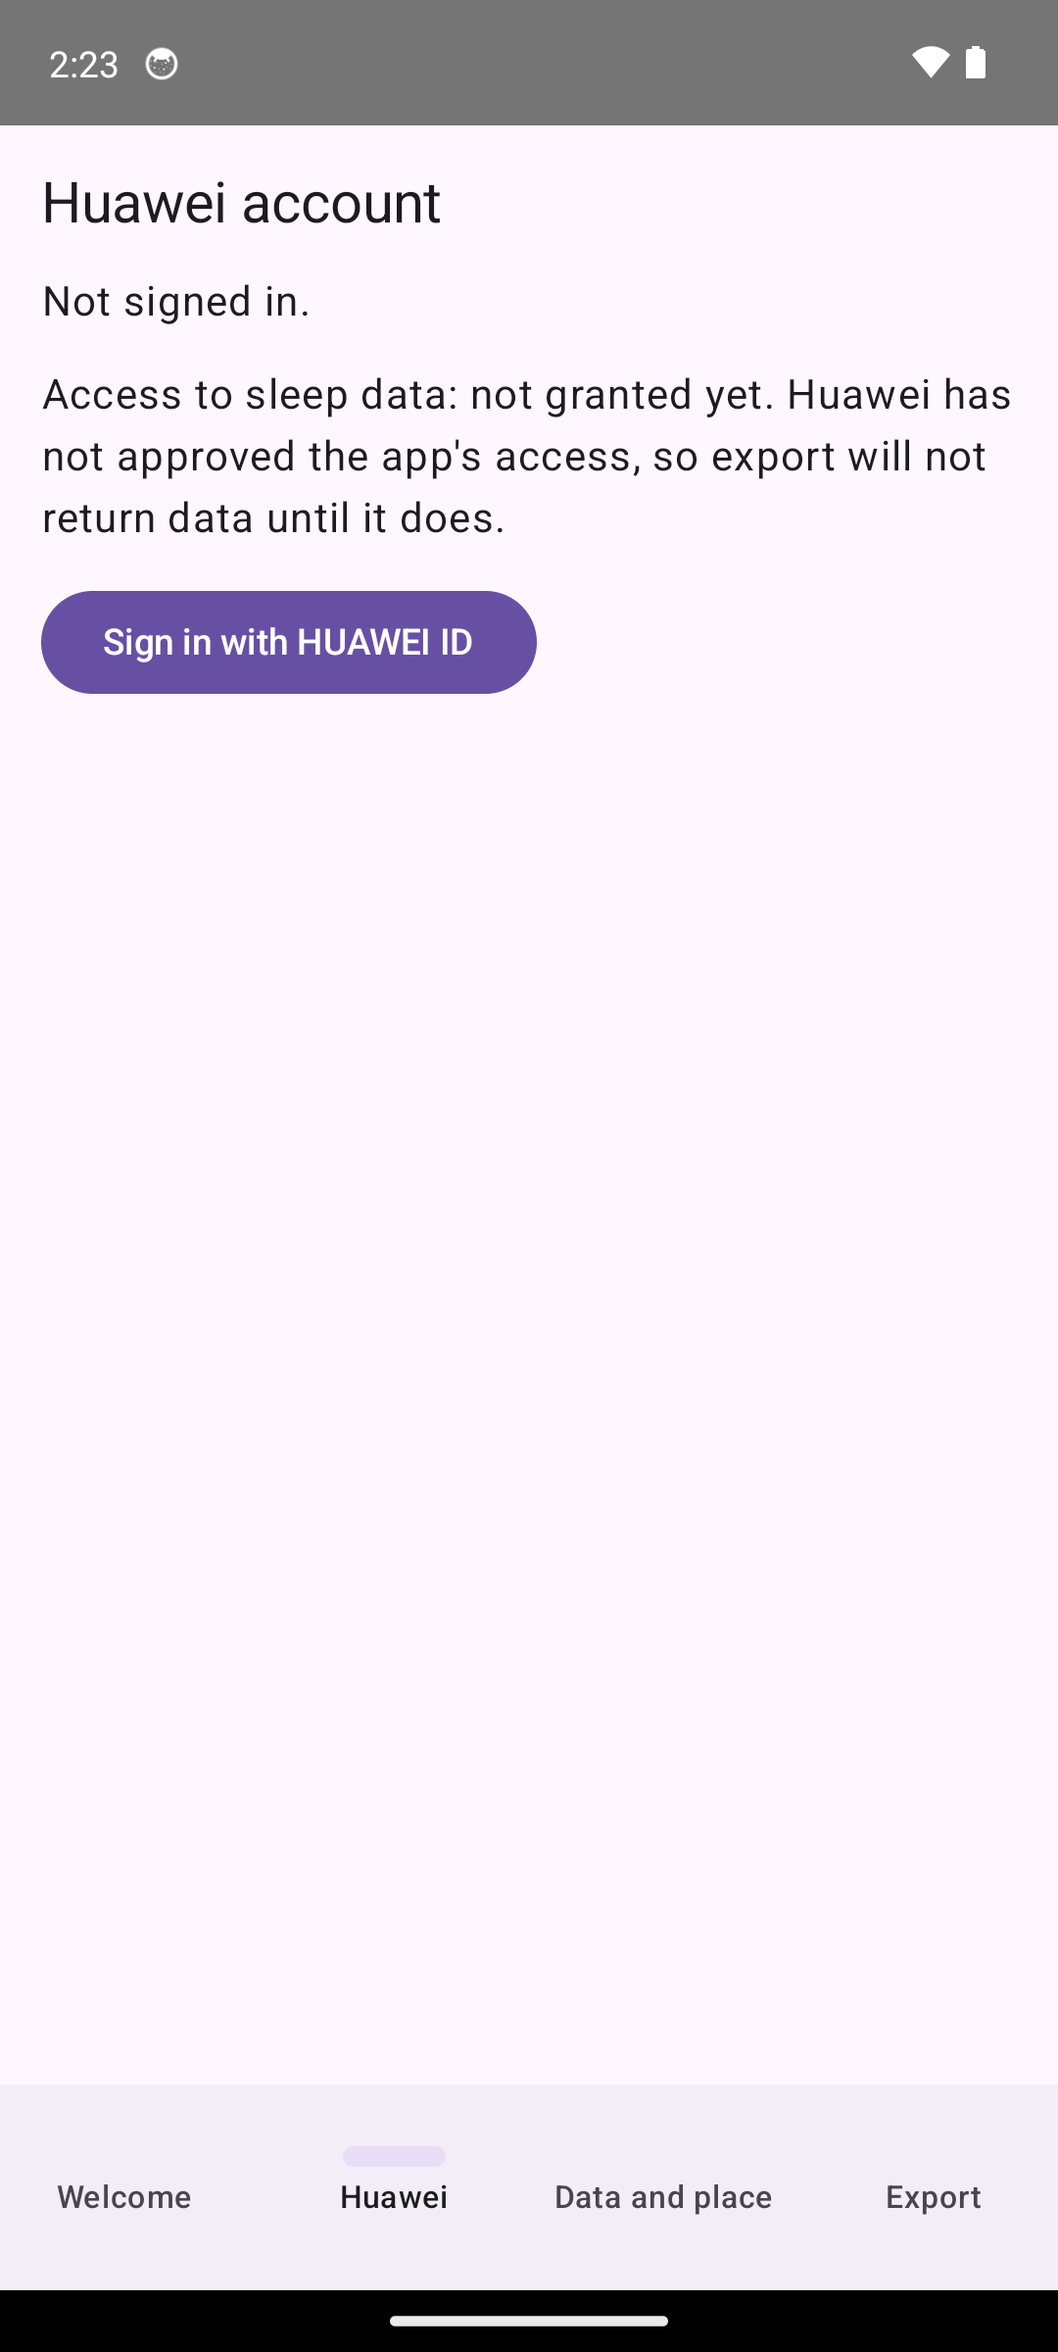
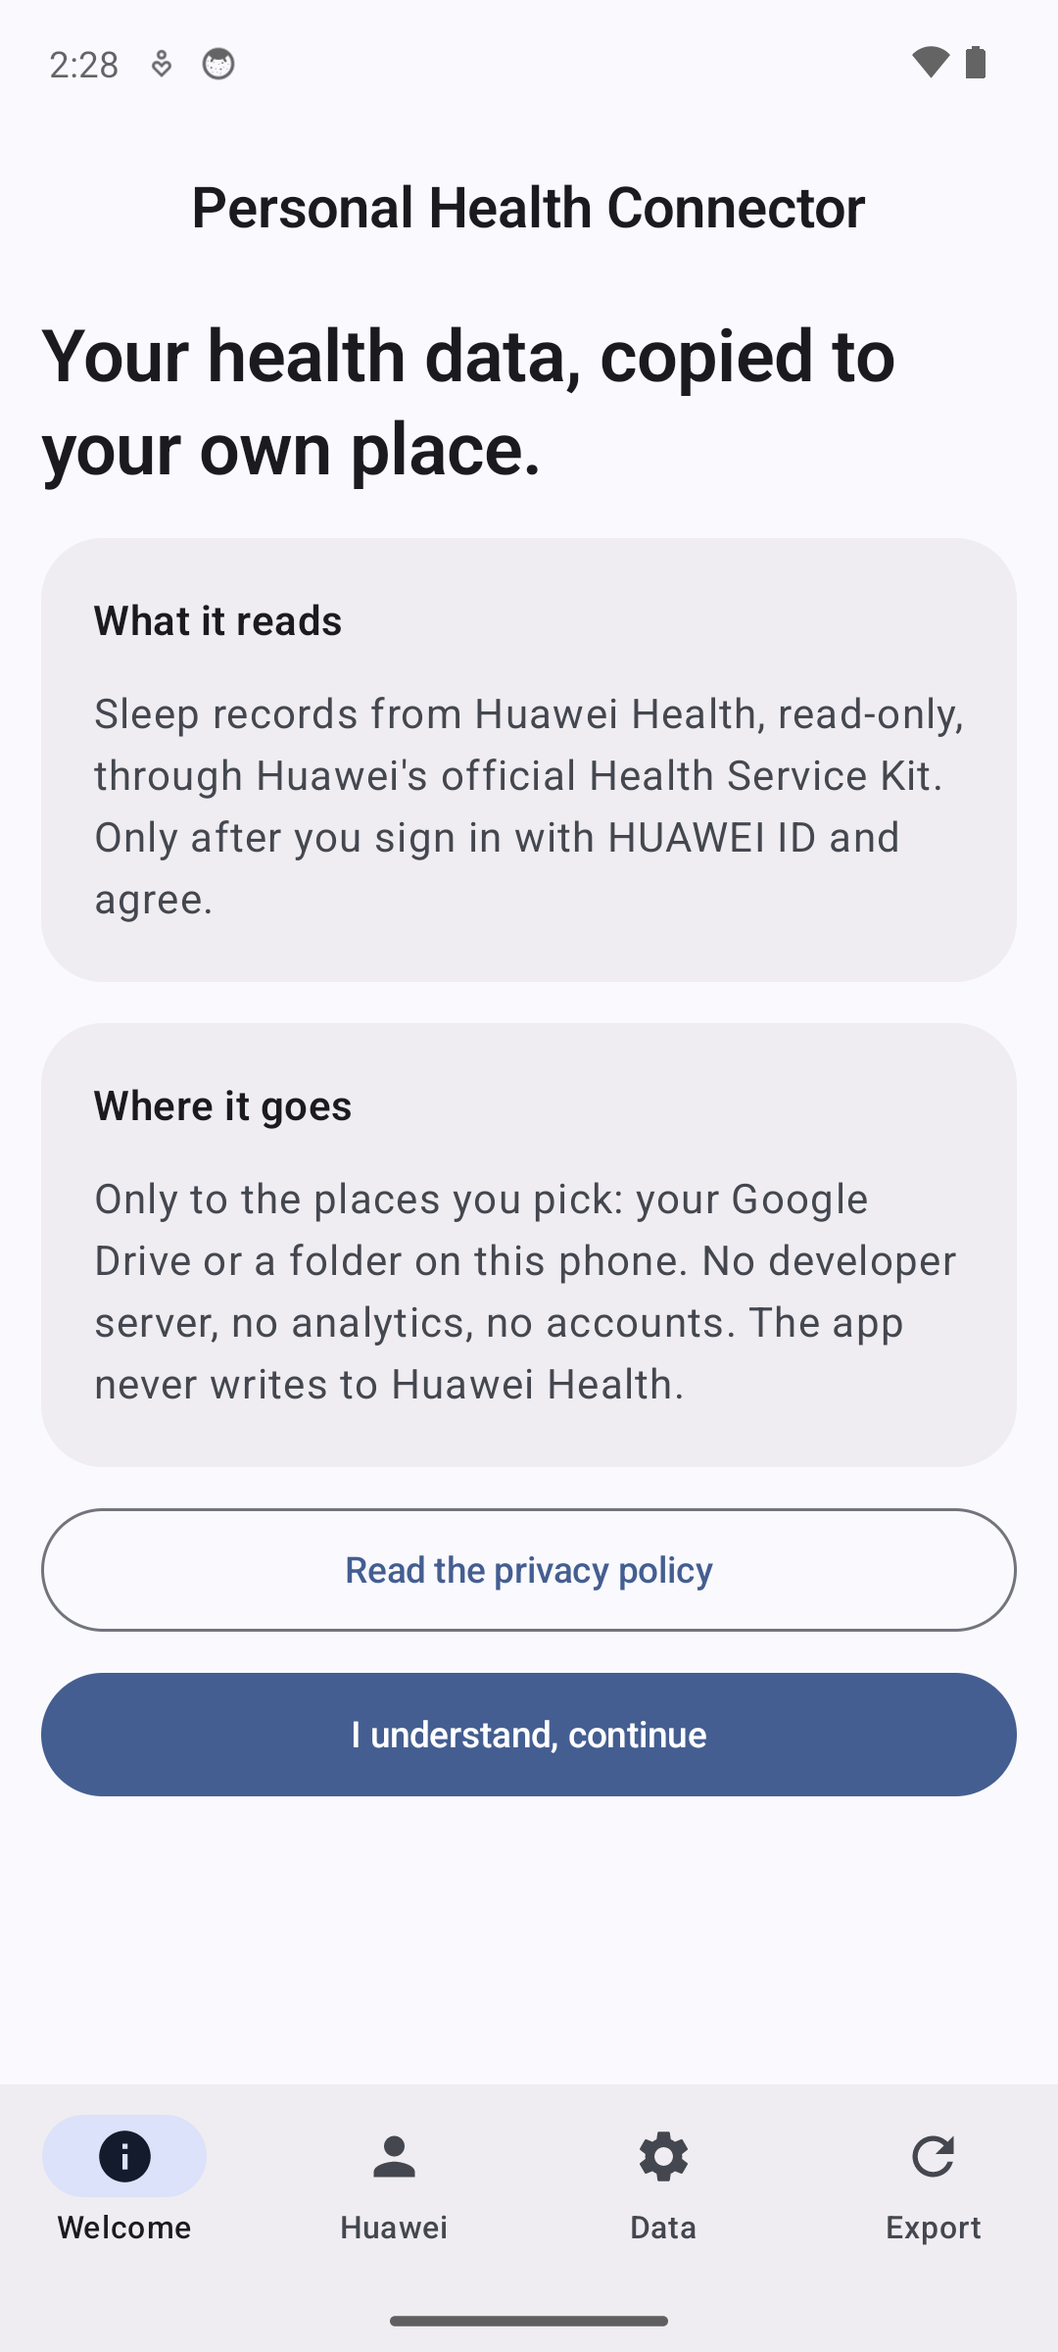
Polish UI: Material 3 theme, cards, status chips, top bar, edge-to-edge, light/dark screenshots

diff --git a/app/src/main/java/app/personalhealthconnector/MainActivity.kt b/app/src/main/java/app/personalhealthconnector/MainActivity.kt
@@ -4,48 +4,89 @@ import android.app.Activity
 import android.app.TimePickerDialog
 import android.content.Intent
 import android.net.Uri
+import android.os.Build
 import android.os.Bundle
 import androidx.activity.ComponentActivity
 import androidx.activity.compose.rememberLauncherForActivityResult
 import androidx.activity.compose.setContent
+import androidx.activity.enableEdgeToEdge
 import androidx.activity.result.IntentSenderRequest
 import androidx.activity.result.contract.ActivityResultContracts
+import androidx.compose.foundation.isSystemInDarkTheme
 import androidx.compose.foundation.layout.*
 import androidx.compose.foundation.rememberScrollState
+import androidx.compose.foundation.shape.RoundedCornerShape
 import androidx.compose.foundation.verticalScroll
+import androidx.compose.material.icons.Icons
+import androidx.compose.material.icons.filled.*
 import androidx.compose.material3.*
 import androidx.compose.runtime.*
+import androidx.compose.ui.Alignment
 import androidx.compose.ui.Modifier
+import androidx.compose.ui.graphics.Color
 import androidx.compose.ui.platform.LocalContext
+import androidx.compose.ui.text.font.FontWeight
 import androidx.compose.ui.unit.dp
-import androidx.work.OneTimeWorkRequestBuilder
-import androidx.work.WorkManager
 import java.text.DateFormat
 import java.util.Date
 
 const val PRIVACY_URL = "https://skywardpro.github.io/personal-health-connector/PRIVACY"
 
+private val LightColors = lightColorScheme(
+    primary = Color(0xFF00695C), onPrimary = Color.White,
+    primaryContainer = Color(0xFFB2DFDB), onPrimaryContainer = Color(0xFF00201C),
+    secondaryContainer = Color(0xFFD7EBE6), tertiaryContainer = Color(0xFFFFE9B5),
+    surface = Color(0xFFF6FAF9), surfaceContainer = Color(0xFFFFFFFF), background = Color(0xFFF6FAF9),
+)
+private val DarkColors = darkColorScheme(
+    primary = Color(0xFF6FD9C8), onPrimary = Color(0xFF00382F),
+    primaryContainer = Color(0xFF005046), onPrimaryContainer = Color(0xFFB2F1E5),
+    secondaryContainer = Color(0xFF2B4742), tertiaryContainer = Color(0xFF5A4300),
+    surface = Color(0xFF0E1514), surfaceContainer = Color(0xFF18211F), background = Color(0xFF0E1514),
+)
+
+@Composable
+private fun PhcTheme(content: @Composable () -> Unit) {
+    val dark = isSystemInDarkTheme()
+    val ctx = LocalContext.current
+    val colors = when {
+        Build.VERSION.SDK_INT >= Build.VERSION_CODES.S -> if (dark) dynamicDarkColorScheme(ctx) else dynamicLightColorScheme(ctx)
+        dark -> DarkColors
+        else -> LightColors
+    }
+    MaterialTheme(colorScheme = colors, content = content)
+}
+
 class MainActivity : ComponentActivity() {
     override fun onCreate(savedInstanceState: Bundle?) {
+        enableEdgeToEdge()
         super.onCreate(savedInstanceState)
-        setContent { MaterialTheme { App() } }
+        setContent { PhcTheme { App() } }
     }
 }
 
+@OptIn(ExperimentalMaterial3Api::class)
 @Composable
 private fun App() {
     val ctx = LocalContext.current
     val prefs = remember { Prefs(ctx) }
     var tab by remember { mutableIntStateOf(0) }
-    val titles = listOf("Welcome", "Huawei", "Data and place", "Export")
-    Scaffold(bottomBar = {
-        NavigationBar {
-            titles.forEachIndexed { i, t ->
-                NavigationBarItem(selected = tab == i, onClick = { tab = i }, icon = {}, label = { Text(t) })
+    val tabs = listOf("Welcome" to Icons.Filled.Info, "Huawei" to Icons.Filled.Person, "Data" to Icons.Filled.Settings, "Export" to Icons.Filled.Refresh)
+    Scaffold(
+        containerColor = MaterialTheme.colorScheme.background,
+        topBar = { CenterAlignedTopAppBar(title = { Text(if (tab == 0) "Personal Health Connector" else tabs[tab].first, fontWeight = FontWeight.SemiBold) }) },
+        bottomBar = {
+            NavigationBar {
+                tabs.forEachIndexed { i, (t, icon) ->
+                    NavigationBarItem(selected = tab == i, onClick = { tab = i }, icon = { Icon(icon, null) }, label = { Text(t) })
+                }
             }
-        }
-    }) { pad ->
-        Column(Modifier.padding(pad).padding(16.dp).verticalScroll(rememberScrollState()), verticalArrangement = Arrangement.spacedBy(12.dp)) {
+        },
+    ) { pad ->
+        Column(
+            Modifier.padding(pad).fillMaxSize().verticalScroll(rememberScrollState()).padding(horizontal = 16.dp, vertical = 8.dp),
+            verticalArrangement = Arrangement.spacedBy(16.dp),
+        ) {
             when (tab) {
                 0 -> Welcome { tab = 1 }
                 1 -> HuaweiSignIn(prefs)
@@ -56,15 +97,66 @@ private fun App() {
     }
 }
 
+// ---- Small building blocks ----
+
+@Composable
+private fun SectionCard(title: String, content: @Composable ColumnScope.() -> Unit) {
+    Card(
+        shape = RoundedCornerShape(24.dp),
+        colors = CardDefaults.cardColors(containerColor = MaterialTheme.colorScheme.surfaceContainer),
+        modifier = Modifier.fillMaxWidth(),
+    ) {
+        Column(Modifier.padding(20.dp), verticalArrangement = Arrangement.spacedBy(12.dp)) {
+            Text(title, style = MaterialTheme.typography.titleMedium, fontWeight = FontWeight.SemiBold)
+            content()
+        }
+    }
+}
+
+/** State chip: [ok] green-ish, otherwise warning-ish. */
+@Composable
+private fun StatusChip(text: String, ok: Boolean) {
+    val c = MaterialTheme.colorScheme
+    Surface(shape = RoundedCornerShape(50), color = if (ok) c.primaryContainer else c.tertiaryContainer) {
+        Row(Modifier.padding(horizontal = 12.dp, vertical = 6.dp), verticalAlignment = Alignment.CenterVertically) {
+            Icon(if (ok) Icons.Filled.CheckCircle else Icons.Filled.Warning, null, Modifier.size(16.dp))
+            Spacer(Modifier.width(6.dp))
+            Text(text, style = MaterialTheme.typography.labelLarge)
+        }
+    }
+}
+
+@Composable
+private fun Body(text: String) = Text(text, style = MaterialTheme.typography.bodyLarge, color = MaterialTheme.colorScheme.onSurfaceVariant)
+
+@Composable
+private fun ErrorText(text: String) = Text(text, color = MaterialTheme.colorScheme.error, style = MaterialTheme.typography.bodyMedium)
+
+@Composable
+private fun SwitchRow(title: String, subtitle: String?, checked: Boolean, enabled: Boolean = true, onChange: (Boolean) -> Unit) {
+    Row(Modifier.fillMaxWidth().heightIn(min = 56.dp), verticalAlignment = Alignment.CenterVertically) {
+        Column(Modifier.weight(1f)) {
+            Text(title, style = MaterialTheme.typography.bodyLarge)
+            if (subtitle != null) Text(subtitle, style = MaterialTheme.typography.bodySmall, color = MaterialTheme.colorScheme.onSurfaceVariant)
+        }
+        Switch(checked, onChange, enabled = enabled)
+    }
+}
+
+// ---- Screens ----
+
 @Composable
 private fun Welcome(next: () -> Unit) {
     val ctx = LocalContext.current
-    Text("Personal Health Connector", style = MaterialTheme.typography.headlineSmall)
-    Text("This app copies your own health data from Huawei Health to a place you choose: your Google Drive or a folder on this phone.")
-    Text("What it reads: sleep records, read-only, through Huawei's official Health Service Kit, only after you sign in with HUAWEI ID and agree.")
-    Text("Where it goes: only to the destinations you pick. There is no developer server, no analytics and no accounts. The app never writes to Huawei Health.")
-    OutlinedButton(onClick = { ctx.startActivity(Intent(Intent.ACTION_VIEW, Uri.parse(PRIVACY_URL))) }) { Text("Read the privacy policy") }
-    Button(onClick = next) { Text("I understand, continue") }
+    Text("Your health data, copied to your own place.", style = MaterialTheme.typography.headlineMedium, fontWeight = FontWeight.SemiBold)
+    SectionCard("What it reads") {
+        Body("Sleep records from Huawei Health, read-only, through Huawei's official Health Service Kit. Only after you sign in with HUAWEI ID and agree.")
+    }
+    SectionCard("Where it goes") {
+        Body("Only to the places you pick: your Google Drive or a folder on this phone. No developer server, no analytics, no accounts. The app never writes to Huawei Health.")
+    }
+    OutlinedButton(onClick = { ctx.startActivity(Intent(Intent.ACTION_VIEW, Uri.parse(PRIVACY_URL))) }, Modifier.fillMaxWidth().heightIn(min = 48.dp)) { Text("Read the privacy policy") }
+    Button(onClick = next, Modifier.fillMaxWidth().heightIn(min = 48.dp)) { Text("I understand, continue") }
 }
 
 @Composable
@@ -77,17 +169,18 @@ private fun HuaweiSignIn(prefs: Prefs) {
         signedIn = problem == null
         prefs.huaweiSignedIn = signedIn
     }
-    Text("Huawei account", style = MaterialTheme.typography.titleLarge)
-    Text(if (signedIn) "Signed in with HUAWEI ID." else "Not signed in.")
-    Text(
-        if (prefs.huaweiGranted) "Access to sleep data: granted."
-        else "Access to sleep data: not granted yet. Huawei has not approved the app's access, so export will not return data until it does."
-    )
-    problem?.let { Text(it, color = MaterialTheme.colorScheme.error) }
-    Button(onClick = {
-        try { launcher.launch(HuaweiHealth.signInIntent(ctx as Activity)) }
-        catch (e: Exception) { problem = "Huawei sign-in is not available on this phone (Huawei Mobile Services is missing)." }
-    }) { Text("Sign in with HUAWEI ID") }
+    SectionCard("HUAWEI ID") {
+        StatusChip(if (signedIn) "Signed in" else "Not signed in", signedIn)
+        Button(onClick = {
+            try { launcher.launch(HuaweiHealth.signInIntent(ctx as Activity)) }
+            catch (e: Exception) { problem = "Huawei sign-in is not available on this phone (Huawei Mobile Services is missing)." }
+        }, Modifier.fillMaxWidth().heightIn(min = 48.dp)) { Text("Sign in with HUAWEI ID") }
+        problem?.let { ErrorText(it) }
+    }
+    SectionCard("Access to sleep data") {
+        StatusChip(if (prefs.huaweiGranted) "Granted" else "Not granted yet", prefs.huaweiGranted)
+        if (!prefs.huaweiGranted) Body("Huawei has not approved the app's access yet. Export will return data as soon as it does; nothing is lost in the meantime.")
+    }
 }
 
 @Composable
@@ -112,47 +205,37 @@ private fun DataAndPlace(prefs: Prefs) {
         else message = "Google Drive access was not approved."
     }
 
-    Text("Data to export", style = MaterialTheme.typography.titleLarge)
-    DataRow("Sleep", sleep, true) { sleep = it; prefs.sleepEnabled = it }
-    for (n in listOf("Steps", "Heart rate", "Blood oxygen (SpO2)", "Stress")) DataRow(n, false, false) {}
-
-    HorizontalDivider()
-    Text("Where to save (one or both)", style = MaterialTheme.typography.titleLarge)
-
-    Text("Google Drive", style = MaterialTheme.typography.titleMedium)
-    if (!GoogleDrive.configured) {
-        Text("Google Drive is not configured in this build.")
-    } else if (account != null) {
-        Text("Linked: $account. Files go to the folder \"${GoogleDrive.FOLDER}\" that this app creates.")
-        Switch(drive, { drive = it; prefs.driveEnabled = it })
-        OutlinedButton(onClick = { prefs.driveAccount = null; prefs.driveEnabled = false; account = null; drive = false }) { Text("Unlink") }
-    } else {
-        Text("The app can only see files it creates itself (drive.file access).")
-        Button(onClick = {
-            GoogleAuth.authorize(ctx as Activity, { r ->
-                val sender = GoogleAuth.consentSender(r)
-                if (sender != null) consent.launch(IntentSenderRequest.Builder(sender).build())
-                else { prefs.driveAccount = "Google account"; account = "Google account"; prefs.driveEnabled = true; drive = true }
-            }, { message = it })
-        }) { Text("Link Google account") }
+    SectionCard("Data to export") {
+        SwitchRow("Sleep", "Nights, stages and times", sleep) { sleep = it; prefs.sleepEnabled = it }
+        for (n in listOf("Steps", "Heart rate", "Blood oxygen (SpO2)", "Stress")) SwitchRow(n, "Coming soon", false, enabled = false) {}
     }
-
-    Text("Folder on this phone", style = MaterialTheme.typography.titleMedium)
-    Text(if (folderUri == null) "No folder chosen." else "Folder chosen.")
-    if (folderUri != null) Switch(folder, { folder = it; prefs.folderEnabled = it })
-    Button(onClick = { folderPicker.launch(null) }) { Text(if (folderUri == null) "Choose folder" else "Change folder") }
-    message?.let { Text(it, color = MaterialTheme.colorScheme.error) }
-}
-
-@Composable
-private fun DataRow(name: String, checked: Boolean, enabled: Boolean, onChange: (Boolean) -> Unit) {
-    Row(Modifier.fillMaxWidth(), horizontalArrangement = Arrangement.SpaceBetween) {
-        Column {
-            Text(name)
-            if (!enabled) Text("coming soon", style = MaterialTheme.typography.bodySmall)
+    SectionCard("Google Drive") {
+        if (!GoogleDrive.configured) {
+            StatusChip("Not configured", false)
+            Body("Google Drive is not configured in this build.")
+        } else if (account != null) {
+            StatusChip("Linked: $account", true)
+            Body("Files go to the folder \"${GoogleDrive.FOLDER}\" that this app creates. The app sees only files it created.")
+            SwitchRow("Save to Google Drive", null, drive) { drive = it; prefs.driveEnabled = it }
+            OutlinedButton(onClick = { prefs.driveAccount = null; prefs.driveEnabled = false; account = null; drive = false }, Modifier.heightIn(min = 48.dp)) { Text("Unlink") }
+        } else {
+            StatusChip("Not linked", false)
+            Body("Uses the narrow drive.file access: the app can only see files it creates itself.")
+            Button(onClick = {
+                GoogleAuth.authorize(ctx as Activity, { r ->
+                    val sender = GoogleAuth.consentSender(r)
+                    if (sender != null) consent.launch(IntentSenderRequest.Builder(sender).build())
+                    else { prefs.driveAccount = "Google account"; account = "Google account"; prefs.driveEnabled = true; drive = true }
+                }, { message = it })
+            }, Modifier.fillMaxWidth().heightIn(min = 48.dp)) { Text("Link Google account") }
         }
-        Switch(checked, onChange, enabled = enabled)
     }
+    SectionCard("Folder on this phone") {
+        StatusChip(if (folderUri == null) "No folder chosen" else "Folder chosen", folderUri != null)
+        if (folderUri != null) SwitchRow("Save to this folder", null, folder) { folder = it; prefs.folderEnabled = it }
+        FilledTonalButton(onClick = { folderPicker.launch(null) }, Modifier.fillMaxWidth().heightIn(min = 48.dp)) { Text(if (folderUri == null) "Choose folder" else "Change folder") }
+    }
+    message?.let { ErrorText(it) }
 }
 
 @Composable
@@ -162,27 +245,34 @@ private fun ExportStatus(prefs: Prefs) {
     var running by remember { mutableStateOf(false) }
     var refresh by remember { mutableIntStateOf(0) }
     val set = { m: Int -> minutes = m; prefs.scheduleMinutes = m; ExportWorker.schedule(ctx, m) }
-
-    Text("Schedule", style = MaterialTheme.typography.titleLarge)
-    Text(if (minutes < 0) "Automatic export is off." else "Daily at %02d:%02d.".format(minutes / 60, minutes % 60))
-    Row(horizontalArrangement = Arrangement.spacedBy(8.dp)) {
-        Button(onClick = {
-            val start = if (minutes < 0) 8 * 60 else minutes
-            TimePickerDialog(ctx, { _, h, m -> set(h * 60 + m) }, start / 60, start % 60, true).show()
-        }) { Text("Choose time") }
-        OutlinedButton(onClick = { set(-1) }, enabled = minutes >= 0) { Text("Turn off") }
+    fun pickTime() {
+        val start = if (minutes < 0) 8 * 60 else minutes
+        TimePickerDialog(ctx, { _, h, m -> set(h * 60 + m) }, start / 60, start % 60, true).show()
     }
 
-    HorizontalDivider()
-    Text("Status", style = MaterialTheme.typography.titleLarge)
-    key(refresh) {
-        val last = prefs.lastExportAt
-        Text(if (last == 0L) "No export yet." else "Last export: ${DateFormat.getDateTimeInstance().format(Date(last))}")
-        if (last != 0L) Text("Nights exported: ${prefs.lastNights}")
-        prefs.lastError?.let { Text(it, color = MaterialTheme.colorScheme.error) }
+    SectionCard("Schedule") {
+        SwitchRow("Export every day", if (minutes < 0) "Off" else "At %02d:%02d".format(minutes / 60, minutes % 60), minutes >= 0) { if (it) pickTime() else set(-1) }
+        if (minutes >= 0) OutlinedButton(onClick = { pickTime() }, Modifier.heightIn(min = 48.dp)) { Text("Change time") }
     }
-    Button(enabled = !running, onClick = {
-        running = true
-        Thread { ExportWorker.runAndRecord(ctx.applicationContext); (ctx as Activity).runOnUiThread { running = false; refresh++ } }.start()
-    }) { Text(if (running) "Exporting..." else "Export now") }
+    SectionCard("Last export") {
+        key(refresh) {
+            val last = prefs.lastExportAt
+            if (last == 0L) {
+                StatusChip("No export yet", false)
+                Body("Press \"Export now\" once a destination is chosen.")
+            } else {
+                StatusChip("Exported", true)
+                Body("${DateFormat.getDateTimeInstance().format(Date(last))}\nNights exported: ${prefs.lastNights}")
+            }
+            prefs.lastError?.let { ErrorText(it) }
+        }
+    }
+    Button(
+        enabled = !running,
+        modifier = Modifier.fillMaxWidth().heightIn(min = 52.dp),
+        onClick = {
+            running = true
+            Thread { ExportWorker.runAndRecord(ctx.applicationContext); (ctx as Activity).runOnUiThread { running = false; refresh++ } }.start()
+        },
+    ) { Text(if (running) "Exporting..." else "Export now") }
 }

diff --git a/README.md b/README.md
@@ -2,7 +2,7 @@
 
 An open-source Android app that exports **your own** raw health data from Huawei Health (read-only) to a file in **your own** cloud drive, so you can use it in your own tools, bots, AI agents and analysis apps.
 
-Status: first working version (v0.1.0). The UI and flow run; reading real data waits for Huawei to approve the sleep scope (see [docs/APPLICATION.md](docs/APPLICATION.md)). Until then the app shows "not granted yet". Screenshots: [docs/screenshots](docs/screenshots).
+Status: first working version (v0.1.0). The UI and flow run; reading real data waits for Huawei to approve the sleep scope (see [docs/APPLICATION.md](docs/APPLICATION.md)). Until then the app shows "not granted yet". Material 3 UI, teal theme with dynamic colour on Android 12+, light and dark. Screenshots: [docs/screenshots](docs/screenshots).
 
 ## Build
 JDK 17 and the Android SDK (platform 34), then `./gradlew assembleDebug`. Debug builds are signed with the release key when a git-ignored `keystore.properties` (`storeFile`, `alias`, `password`) exists in the repo root, otherwise with the default debug key (Google sign-in then will not match). Huawei's Maven repo is declared in `settings.gradle.kts`; no `agconnect-services.json` is used so far.
